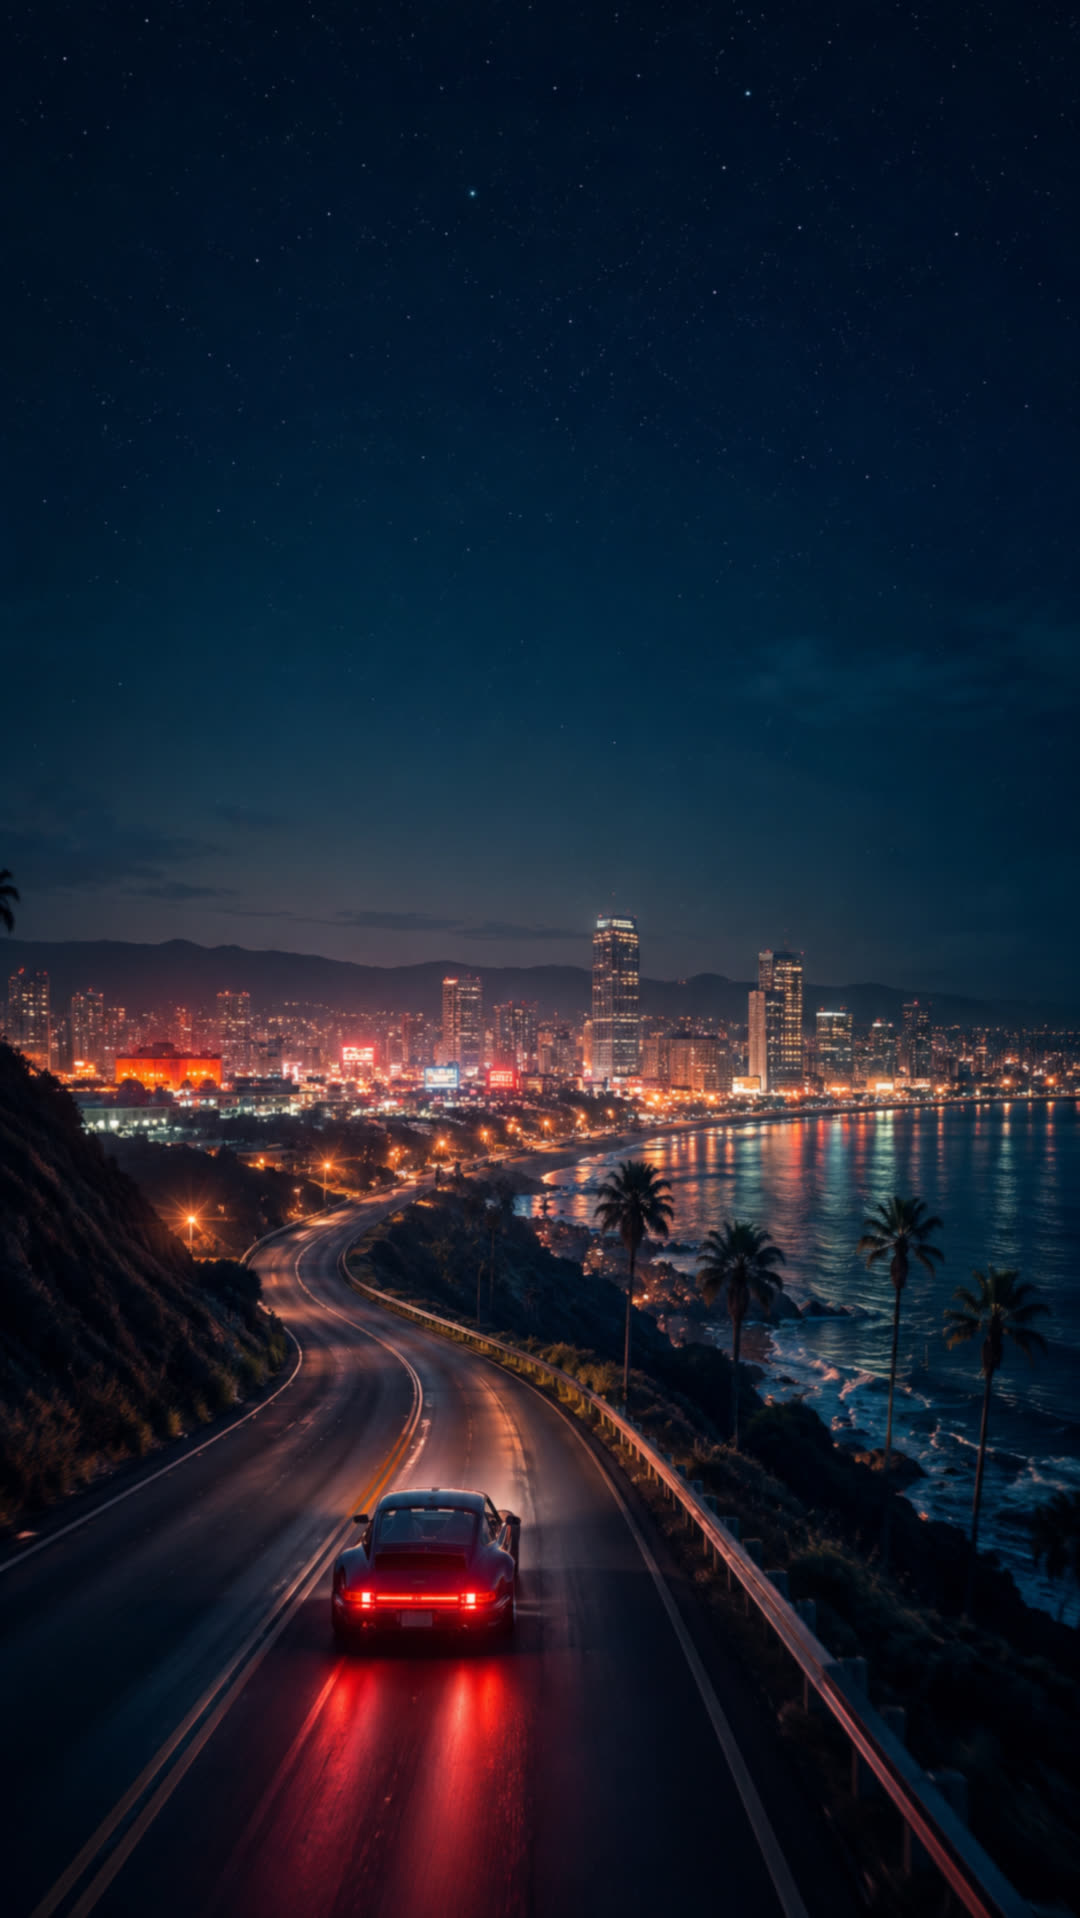
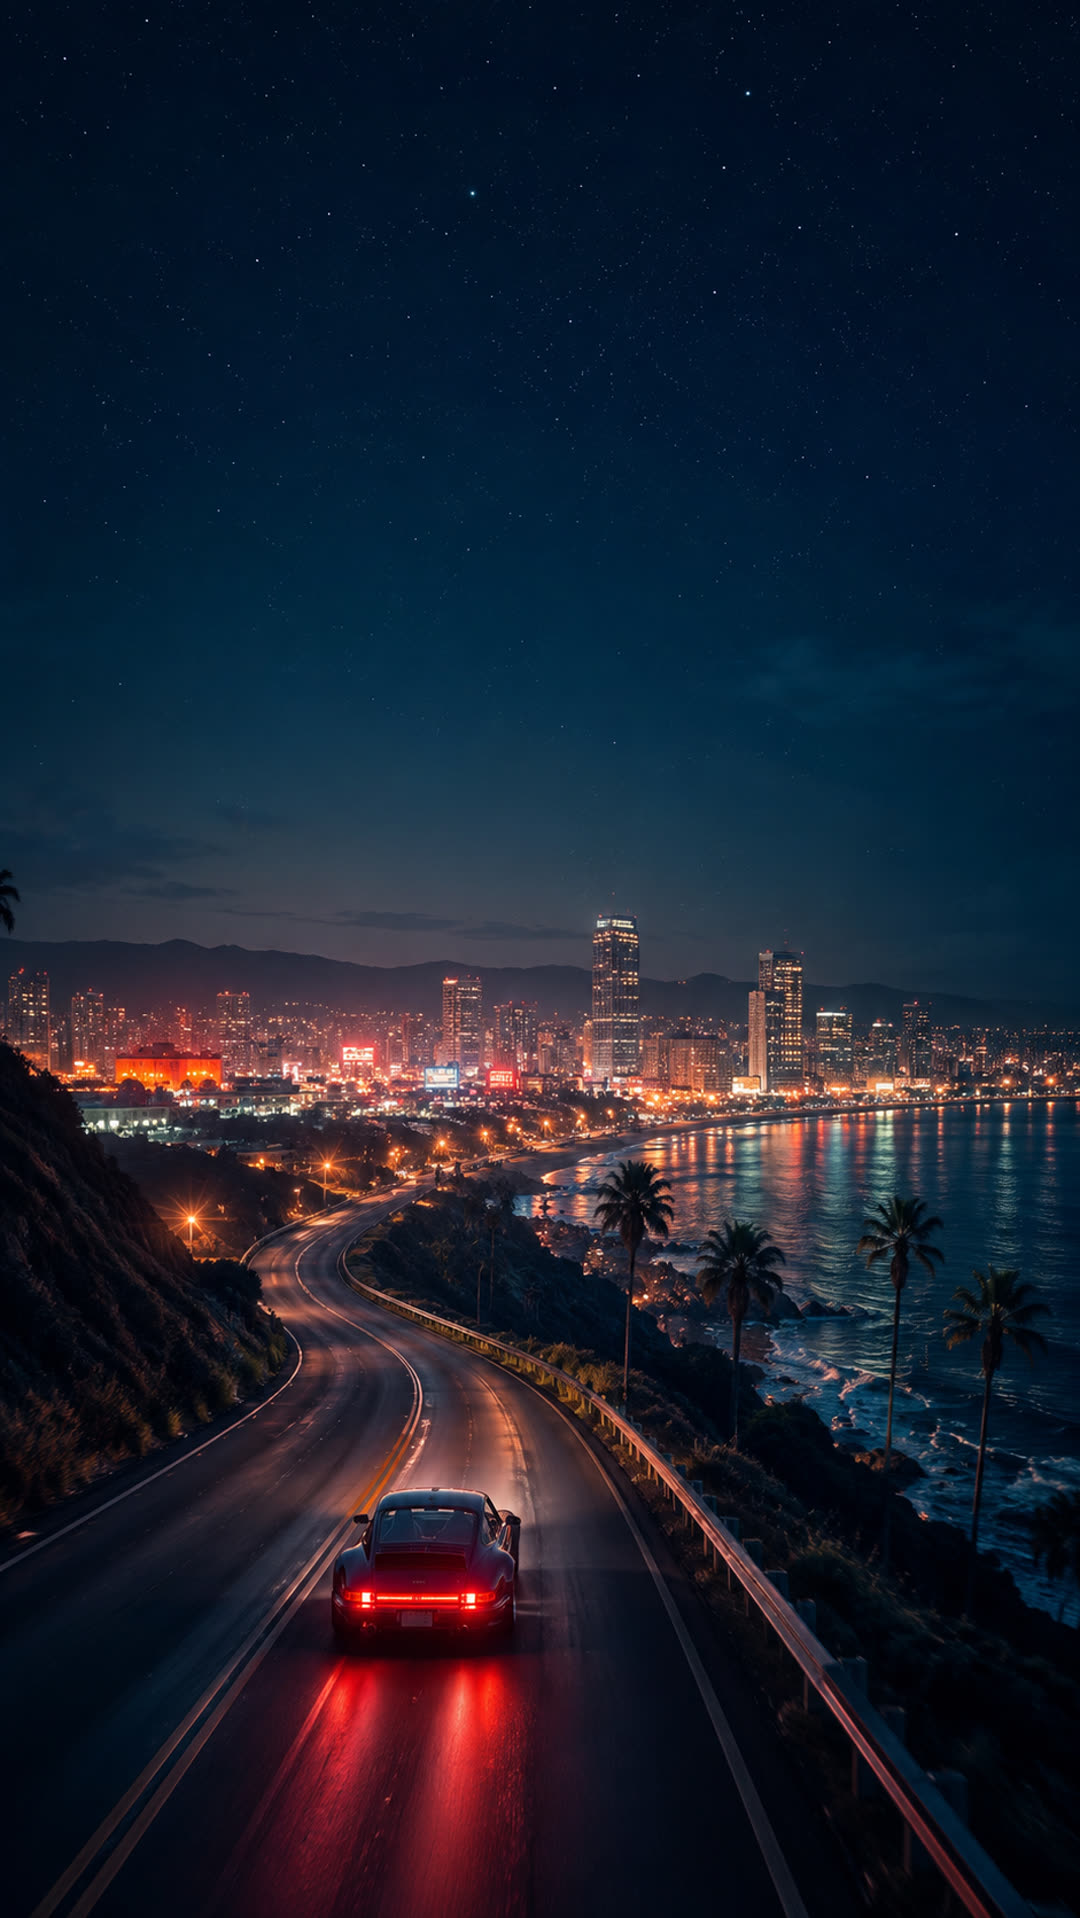
Reduce station backdrop blur across the app
Detail modal 3.5->1.5, hero 2->1.2, on-air card 1.5->1, mode
fullscreens + StationBackdrop default 3.5->2.5. Regenerate Night Run
with no baked-in blur so all images rely only on the lighter runtime
blur. Images now read sharp, especially Sunset FM.

diff --git a/src/components/StationDetailModal.tsx b/src/components/StationDetailModal.tsx
@@ -110,7 +110,7 @@ export function StationDetailModal({ station, visible, onClose, onStartDrive, is
       <Animated.View style={[styles.root, { transform: [{ translateY: slideY }] }]} {...dismissPan.panHandlers}>
 
         {/* Full-bleed blurred station background — motion is a Premium unlock */}
-        <StationBackdrop station={station} blurRadius={3.5} motionAllowed={isPro && !dataSaver} />
+        <StationBackdrop station={station} blurRadius={1.5} motionAllowed={isPro && !dataSaver} />
         {/* Smooth multi-stop fade: clear scene up top, melts into dark
             behind the controls — no visible seam anywhere. */}
         <LinearGradient

diff --git a/src/components/HeroCard.tsx b/src/components/HeroCard.tsx
@@ -41,7 +41,7 @@ export function HeroCard({ onStartDrive, cueLabel, station, buttonLabel = 'Start
       <View style={styles.card}>
         {/* Tonight's pick, full bleed — the hero always animates (a taste of
             motion for everyone), unless Data Saver forces stills */}
-        <StationBackdrop station={station} blurRadius={2} motionAllowed={!dataSaver} />
+        <StationBackdrop station={station} blurRadius={1.2} motionAllowed={!dataSaver} />
         {/* Dark fade so the copy stays readable over any photo */}
         <LinearGradient
           colors={[

diff --git a/src/components/CircularWaveMode.tsx b/src/components/CircularWaveMode.tsx
@@ -162,7 +162,7 @@ export function CircularWaveFullscreen({ visible, onClose, stationId }: { visibl
           source={station.image}
           style={StyleSheet.absoluteFill}
           imageStyle={{ width: '100%', height: '100%' }}
-          blurRadius={3.5}
+          blurRadius={2.5}
           resizeMode="cover"
         />
         <LinearGradient

diff --git a/src/components/IpodMode.tsx b/src/components/IpodMode.tsx
@@ -391,7 +391,7 @@ export function IpodClassicFullscreen({ visible, onClose, stationId }: { visible
           source={station.image}
           style={StyleSheet.absoluteFill}
           imageStyle={{ width: '100%', height: '100%' }}
-          blurRadius={3.5}
+          blurRadius={2.5}
           resizeMode="cover"
         />
         <LinearGradient

diff --git a/src/components/SoundWaveMode.tsx b/src/components/SoundWaveMode.tsx
@@ -162,7 +162,7 @@ export function SoundWaveFullscreen({ visible, onClose, stationId }: { visible: 
           source={station.image}
           style={StyleSheet.absoluteFill}
           imageStyle={{ width: '100%', height: '100%' }}
-          blurRadius={3.5}
+          blurRadius={2.5}
           resizeMode="cover"
         />
         <LinearGradient

diff --git a/src/components/VinylMode.tsx b/src/components/VinylMode.tsx
@@ -849,7 +849,7 @@ export function VinylFullscreen({ visible, onClose, stationId }: { visible: bool
           source={station.image}
           style={StyleSheet.absoluteFill}
           imageStyle={{ width: '100%', height: '100%' }}
-          blurRadius={3.5}
+          blurRadius={2.5}
           resizeMode="cover"
         />
         <LinearGradient

diff --git a/src/components/RetroRadioMode.tsx b/src/components/RetroRadioMode.tsx
@@ -790,7 +790,7 @@ export function RetroRadioFullscreen({ visible, onClose, stationId }: { visible:
           source={stationImg}
           style={StyleSheet.absoluteFill}
           imageStyle={{ width: '100%', height: '100%' }}
-          blurRadius={3.5}
+          blurRadius={2.5}
           resizeMode="cover"
         />
         <LinearGradient

diff --git a/src/app/(tabs)/stations.tsx b/src/app/(tabs)/stations.tsx
@@ -74,7 +74,7 @@ function OnAirBanner({ station, onPress }: { station: Station; onPress: () => vo
           source={station.image}
           style={StyleSheet.absoluteFill}
           imageStyle={{ width: '100%', height: '100%' }}
-          blurRadius={1.5}
+          blurRadius={1}
           resizeMode="cover"
         />
         <LinearGradient

diff --git a/src/components/EqualizerMode.tsx b/src/components/EqualizerMode.tsx
@@ -437,7 +437,7 @@ export function EqualizerFullscreen({ visible, onClose, stationId }: { visible: 
         source={currentStation.image}
         style={StyleSheet.absoluteFill}
         imageStyle={{ width: '100%', height: '100%' }}
-        blurRadius={3.5}
+        blurRadius={2.5}
         resizeMode="cover"
       />
       <LinearGradient

diff --git a/src/components/CassetteMode.tsx b/src/components/CassetteMode.tsx
@@ -681,7 +681,7 @@ export function CassetteFullscreen({ visible, onClose, stationId }: { visible: b
         source={stationImg}
         style={StyleSheet.absoluteFill}
         imageStyle={{ width: '100%', height: '100%' }}
-        blurRadius={3.5}
+        blurRadius={2.5}
         resizeMode="cover"
       />
       <LinearGradient

diff --git a/src/components/StationBackdrop.tsx b/src/components/StationBackdrop.tsx
@@ -10,7 +10,7 @@ import type { Station } from '@/constants/stations';
  */
 export function StationBackdrop({
   station,
-  blurRadius = 3.5,
+  blurRadius = 2.5,
   motionAllowed = false,
 }: {
   station: Station;
